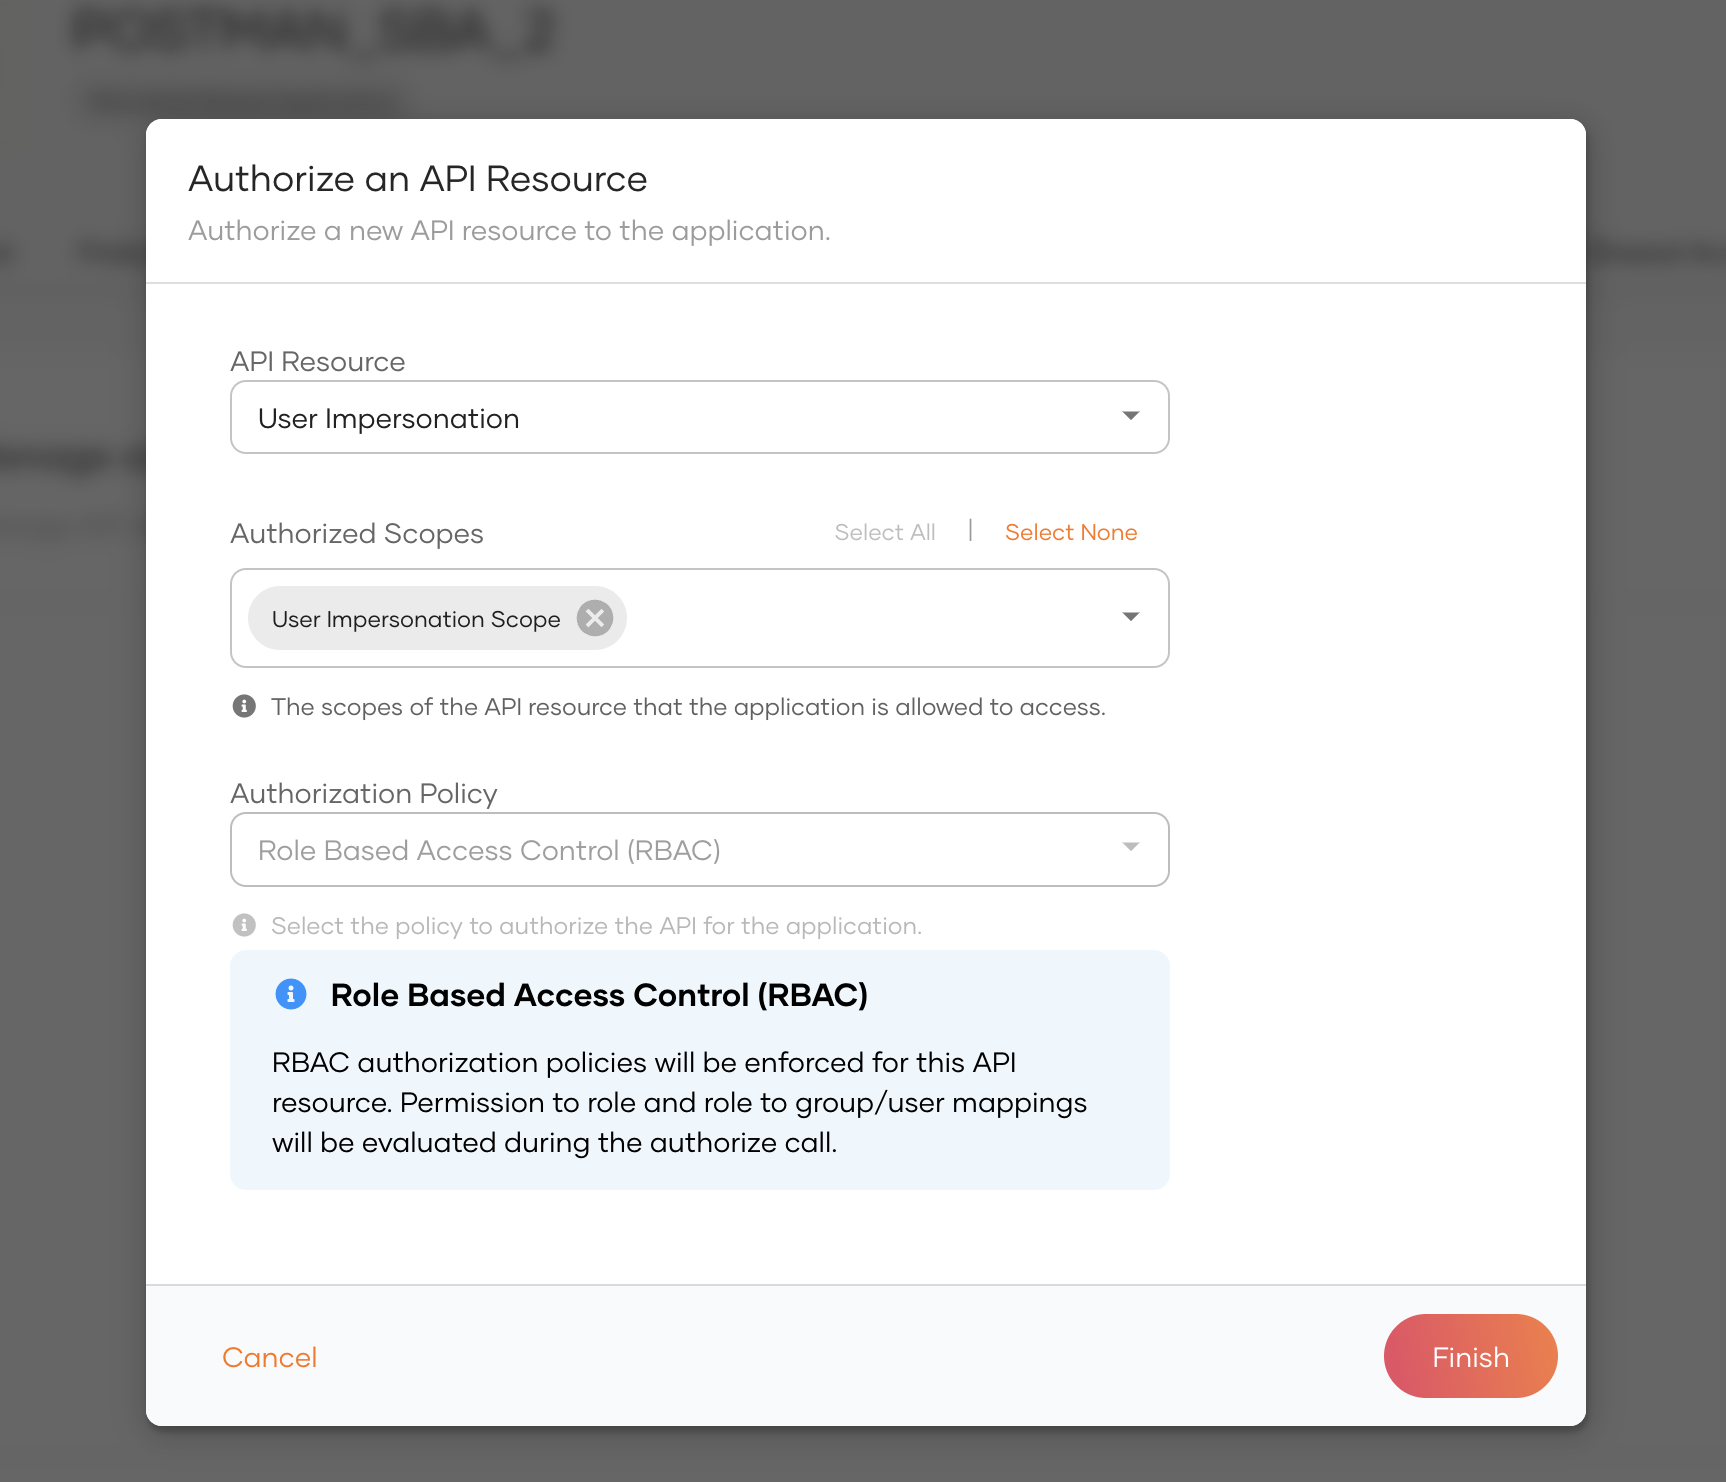
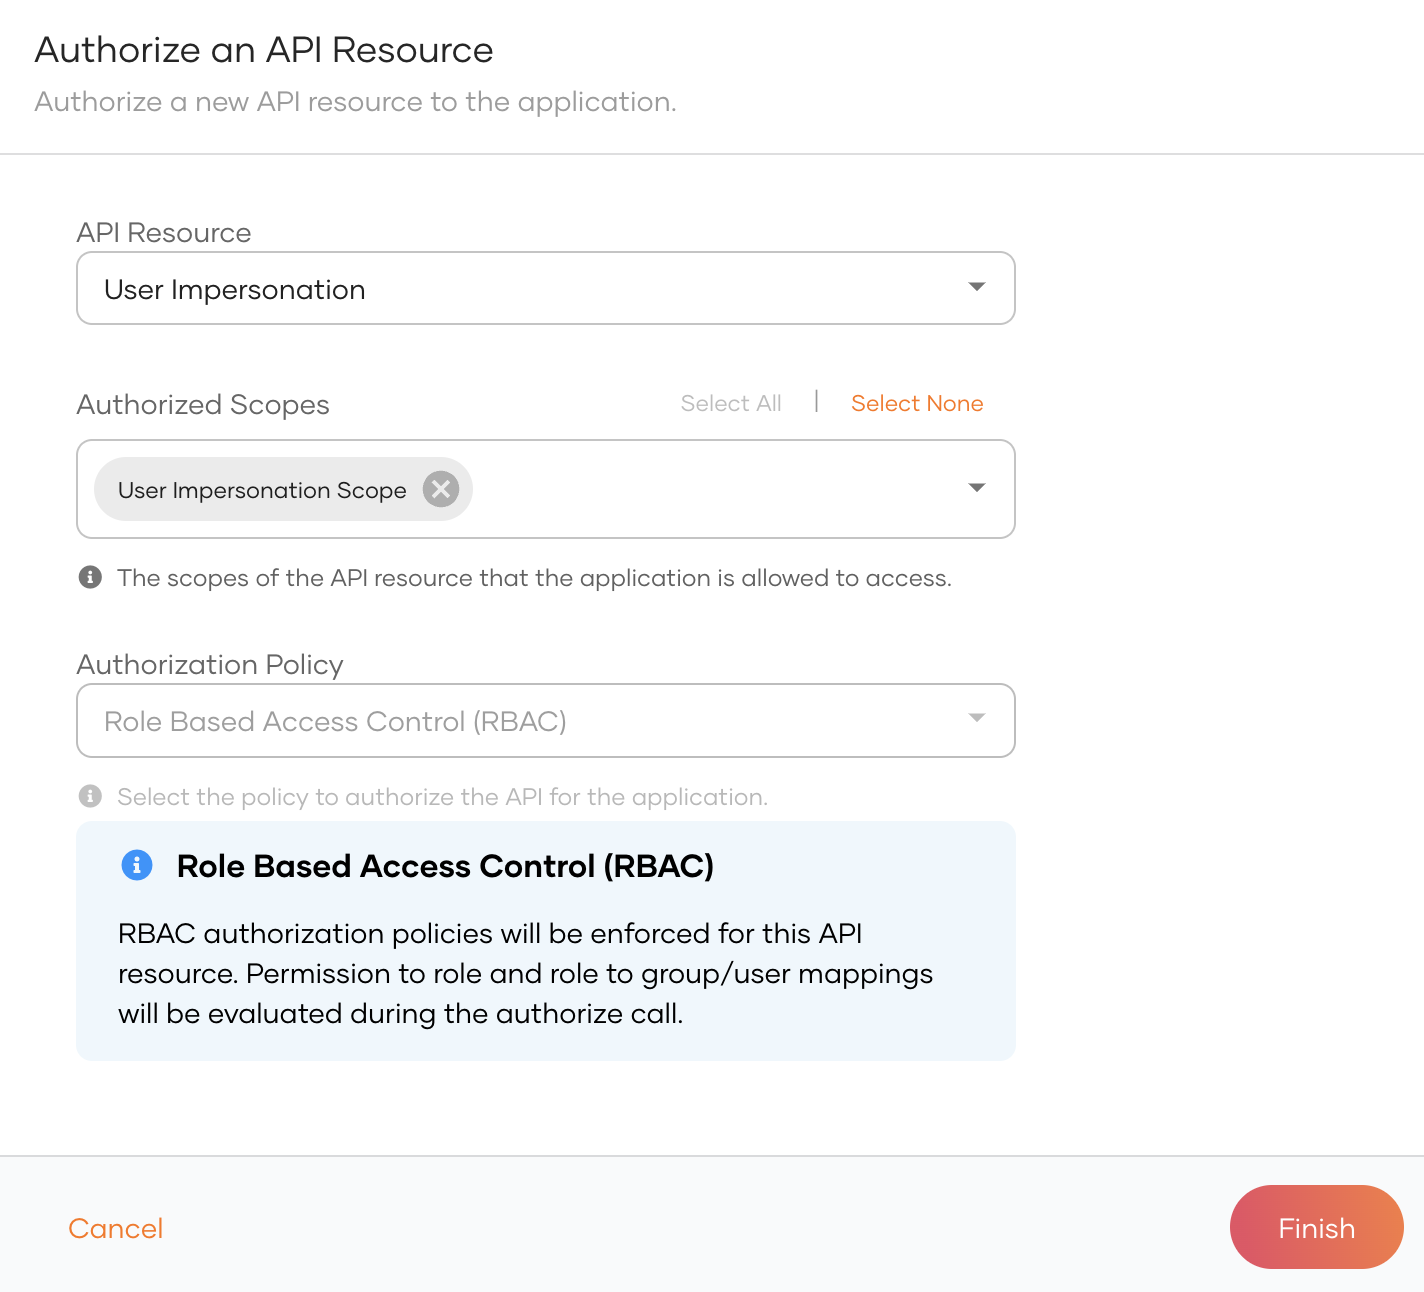
updated user impersonation doc

diff --git a/en/includes/guides/authorization/user-impersonation.md b/en/includes/guides/authorization/user-impersonation.md
@@ -1,33 +1,62 @@
 # User Impersonation
 
-User impersonation involves an authorization server’s ability to temporarily grant access to another user's account. With this feature, a user with required permission can impersonate any user within the organization.
+User impersonation is a feature that allows an authorized user to act as another user.
 
-## Setting up the {{ product_name }}
+This guide explains how you can implement user impersonation in {{product_name}}.
 
-### Configure the application
+## Prerequisite
 
-#### Subscribe to Impersonation API 
+To get started, you need to have an application registered in Asgardeo. If you don't already have one, [register a web app with OIDC]({{base_path}}/guides/applications/register-oidc-web-app/).
+
+## Configure your application for user impersonation
+
+You can go through the following steps to prepare your application for user impersonation.
+
+### Step 1: Authorize application for user impersonation
+
+Your application should be authorized to consume to your applciation for user impersonation, you need to subscribe your application to consume the user impersonation API. To do so,
 
 1. On the {{ product_name }} Console, go to **Applications**.
 
-2. Select the application and go to API Authorization tab of the application and click authorize on API Resource.
+2. Select your application and go to its **API Authorization** tab.
 
-3. Search for User Impersonation under management APIs and subscribe to the application.
+3. Click **Authorize an API Resource** and do the following:
 
-    ![Api-Authorization-Impersonation-Selection]({{base_path}}/assets/img/guides/authorization/impersonation/user-impersonation-selection.png){: width="700" style="display: block; margin: 0; border: 0.3px solid lightgrey;"}
+    1. Under **API Resource**, select **User Impersonation**.
 
-    ![Api-Authorization-Impersonation]({{base_path}}/assets/img/guides/authorization/impersonation/api-authorization-impersonation.png){: width="700" style="display: block; margin: 0; border: 0.3px solid lightgrey;"}
+    2. Under **Authorized Scopes**, select **User Impersonation Scope**.
 
-4. Switch to the Roles tab, click on **+ New Role** to create a Role and assign the Impersonation Scope.
+    3. Click **Finish**.
 
-    ![Role-Creation]({{base_path}}/assets/img/guides/authorization/impersonation/role-creation.png){: width="700" style="display: block; margin: 0; border: 0.3px solid lightgrey;"}
+        ![Authorize impersonation API]({{base_path}}/assets/img/guides/authorization/impersonation/api-authorization-impersonation.png){: width="600" style="display: block; margin: 0; border: 0.3px solid lightgrey;"}
 
-5. Create a User and assign to the Role.
+### Step 2: Create a user role that allows user impersonation
+
+Next, let's create an application role and provide impersonation permissions to it. This role can then be assigned to users who are required to impersontae other users.
+
+1. Switch to the **Roles** tab of the application.
+
+2. Under **Role Audience**, select **Application**.
+
+3. Click **New Role** and do the following:
+
+    1. Provide a suitable role name.
+
+    2. Under **API Resource**, select **User Impersonation**.
+
+    3. Select the checkbox corresponding to **User Impersonation** to select its scopes.
+
+    4. Click **Create**.
+
+        ![Role-Creation]({{base_path}}/assets/img/guides/authorization/impersonation/role-creation.png){: width="600" style="display: block; margin: 0; border: 0.3px solid lightgrey;"}
+
+4. Assign users to the role to provide them with user impersonation permissions.
 
 !!! note
-    To read about subscribing APIs and authorize using Role Based Access Control (RBAC) check [Role-based access control (RBAC)]({{base_path}}/guides/authorization/api-authorization/api-authorization/)
+    - Refer to [Manage roles]({{base_path}}/guides/users/manage-roles/) to learn more about roles and how to assign users to roles.
+    - Refer to [API authorization with RBAC]({{base_path}}/guides/authorization/api-authorization/api-authorization/) to learn more about API authorizations.
 
-#### Configure Subject token for the application
+### Step 3: Configure the subject token of the application
 
 1. On the {{ product_name }} Console, go to **Applications**.
 
@@ -44,7 +73,7 @@ User impersonation involves an authorization server’s ability to temporarily g
     ![Subject-Token-Config]({{base_path}}/assets/img/guides/authorization/impersonation/subject-token-config.png){: width="700" style="display: block; margin: 0; border: 0.3px solid lightgrey;"}
 
 
-#### Apply application advanced configuration
+### Step 4: Apply additional configurations to the application
 
 1. Select the application and go to Application Advanced tab.
 

diff --git a/en/asgardeo/docs/guides/authorization/index.md b/en/asgardeo/docs/guides/authorization/index.md
@@ -1,11 +1,1 @@
-# Authorization
-
-The authorization guide offers detailed instructions for implementing a range of authorization scenarios within your application using {{ product_name }}, ensuring secure access and enhanced protection.
-
-## API authorization
-
-Role Based Access Control (RBAC) lets organizations grant limited access to its API resources based on the roles assigned to a user. Learn how to implement it in [Role-based access control (RBAC)]({{base_path}}/guides/authorization/api-authorization/api-authorization/).
-
-## User impersonation
-
-User impersonation involves granting temporary access to another user's account. Learn how to implement it in [User impersonation]({{base_path}}/guides/authorization/impersonation/user-impersonation/).
+{% include "../../../../includes/guides/authorization/index.md" %}

diff --git a/en/includes/guides/authorization/index.md b/en/includes/guides/authorization/index.md
@@ -1,0 +1,11 @@
+# Authorization
+
+The authorization guide offers detailed instructions for implementing a range of authorization scenarios within your application using {{ product_name }}, ensuring secure access and enhanced protection.
+
+## API authorization
+
+Role Based Access Control (RBAC) lets organizations grant limited access to its API resources based on the roles assigned to a user. Learn how to implement it in [Role-based access control (RBAC)]({{base_path}}/guides/authorization/api-authorization/api-authorization/).
+
+## User impersonation
+
+User impersonation involves granting temporary access to another user's account. Learn how to implement it in [User impersonation]({{base_path}}/guides/authorization/user-impersonation/).

diff --git a/en/asgardeo/docs/guides/authorization/api-authorization/api-authorization.md b/en/asgardeo/docs/guides/authorization/api-authorization/api-authorization.md
@@ -1,2 +1,1 @@
-{% set product_name = "Asgardeo" %}
-{% include "../../../../../includes/guides/api-authorization.md" %}
+{% include "../../../../../includes/guides/authorization/api-authorization.md" %}

diff --git a/en/asgardeo/docs/guides/authorization/user-impersonation.md b/en/asgardeo/docs/guides/authorization/user-impersonation.md
@@ -1,0 +1,1 @@
+{% include "../../../../includes/guides/authorization/user-impersonation.md" %}
